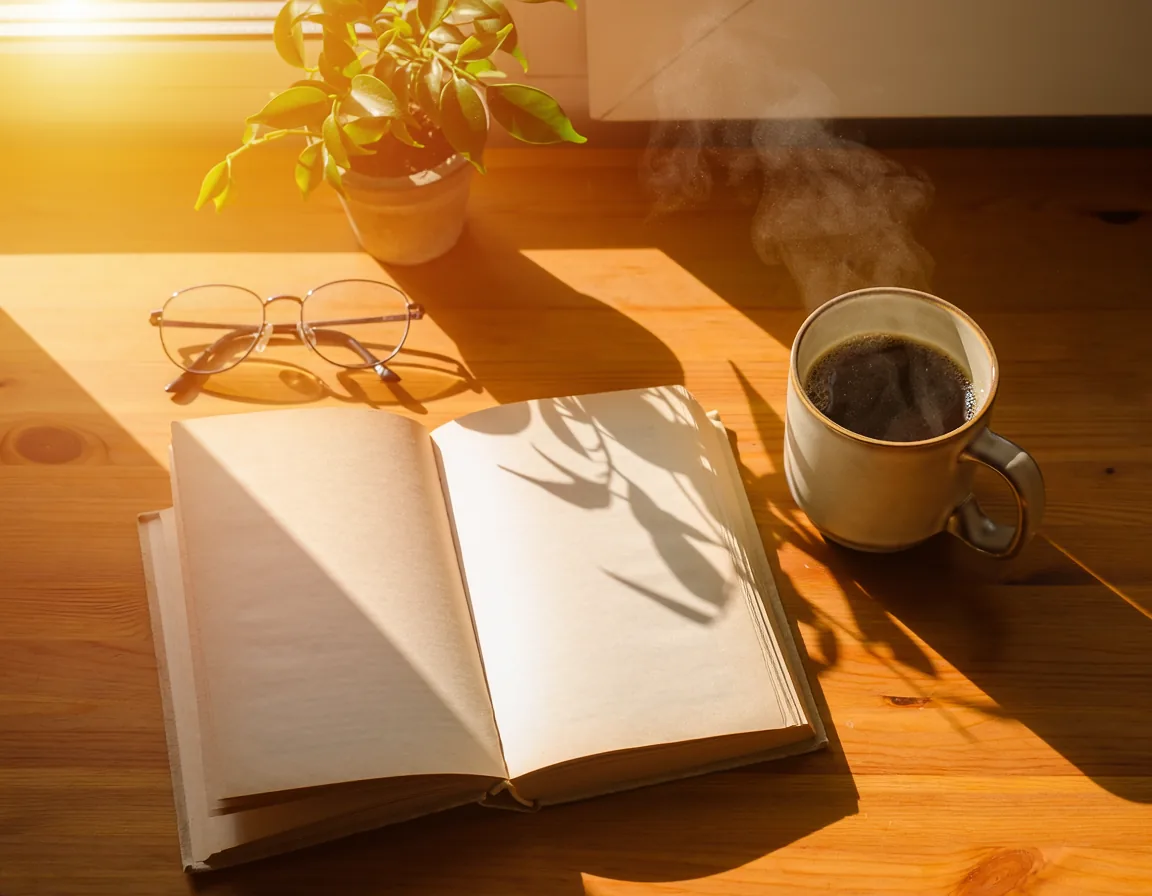
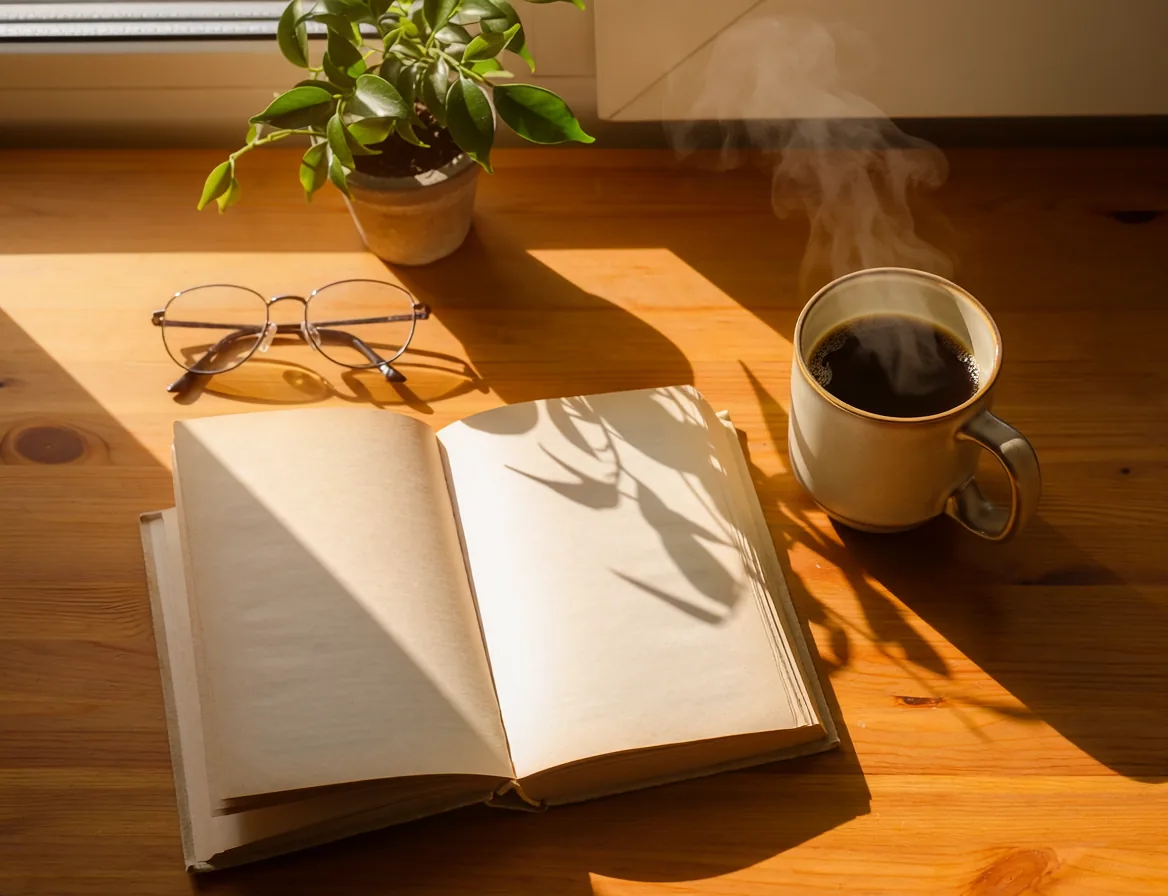
04 ねらって作る：お題1の画像を差し替え
Claude-Session: https://claude.ai/code/session_01BKoKddQTTSafX3J2g4p7aN

diff --git a/lesson04-aim.html b/lesson04-aim.html
@@ -147,7 +147,7 @@
       <h2 class="sub"><span class="sub-ic" aria-hidden="true"><svg><use href="#i-pen"/></svg></span>やってみよう</h2>
       <p class="ptext">お題の画像を見て、できるだけ近い画像を作りましょう。</p>
       <figure class="target">
-        <img src="images/odai1.webp" width="1152" height="896" alt="お題1：テーブルの上のコーヒーと本の写真" loading="lazy">
+        <img src="images/odai1.webp" width="1168" height="896" alt="お題1：テーブルの上のコーヒーと本の写真" loading="lazy">
         <figcaption>お題1</figcaption>
       </figure>
       <p class="note">お題の画像は、Fireflyに読み込まないでください。言葉だけで作ります。</p>
